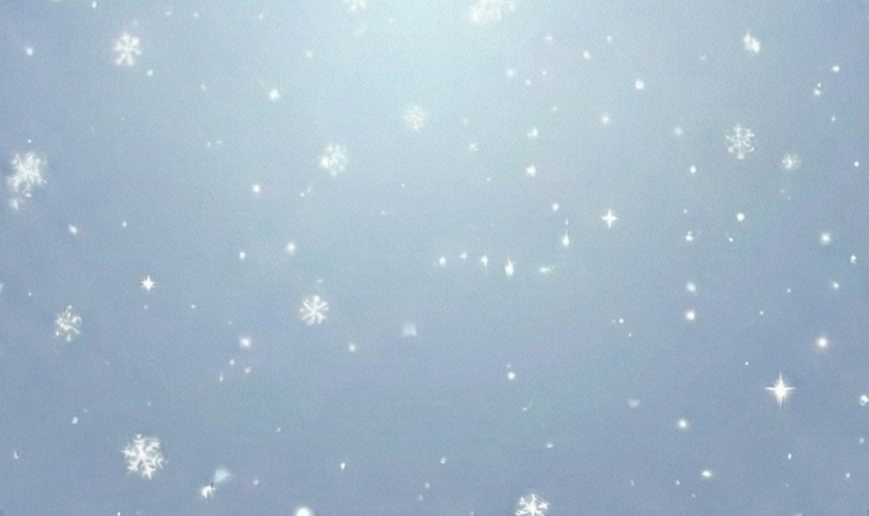
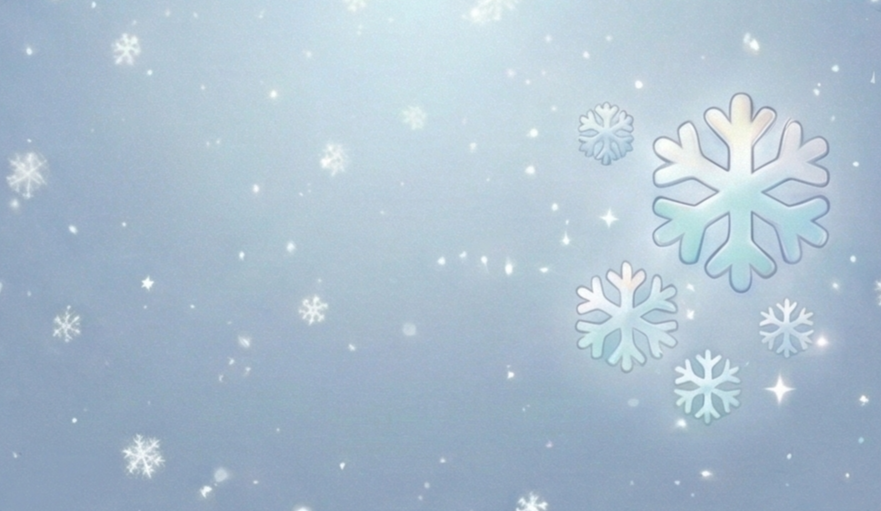
weather

diff --git a/mobile/app/(tabs)/home.tsx b/mobile/app/(tabs)/home.tsx
@@ -12,14 +12,7 @@ import FriendSelector from "../../components/FriendSelector";
 import { Activity, MOCK_ACTIVITIES } from "../../constants/data";
 import { useCurrentWeather } from "../../hooks/useCurrentWeather";
 
-const WEATHER_ICONS: Record<string, any> = {
-  '맑음': require('../../assets/weather/sun.png'),
-  '구름많음': require('../../assets/weather/cloudy_sun.png'),
-  '흐림': require('../../assets/weather/cloudy.png'),
-  '눈': require('../../assets/weather/snow.png'),
-  '비': require('../../assets/weather/cloudy.png'), // Fallback for rain if not provided
-  'default': require('../../assets/weather/sun.png'),
-};
+
 
 const WEATHER_THEMES: Record<string, { bg: string, text: string, border?: string }> = {
   '맑음': { bg: '#81CFEF', text: '#FFFFFF', border: '#FFB2C3' },
@@ -44,9 +37,7 @@ export default function HomeScreen() {
   const router = useRouter();
   const { data, loading, error, permissionDenied } = useCurrentWeather();
 
-  const getWeatherIcon = (status: string) => {
-    return WEATHER_ICONS[status] || WEATHER_ICONS['default'];
-  };
+
 
   const getWeatherBackground = (status: string) => {
     return WEATHER_BG_IMAGES[status] || WEATHER_BG_IMAGES['default'];
@@ -141,11 +132,7 @@ export default function HomeScreen() {
                         </Text>
                       </View>
                     </View>
-                    <Image
-                      source={getWeatherIcon(data.precipitationType)}
-                      style={styles.weatherIcon}
-                      resizeMode="contain"
-                    />
+                    {/* Icon is now part of the background image */}
                   </View>
                 )}
               </View>
@@ -179,7 +166,6 @@ const styles = StyleSheet.create({
   },
   weatherContainer: {
     flexDirection: "row",
-    justifyContent: "space-between",
     alignItems: "center",
   },
   weatherInfo: {
@@ -199,10 +185,6 @@ const styles = StyleSheet.create({
   weatherSubInfo: {
     flexDirection: "row",
     gap: 12,
-  },
-  weatherIcon: {
-    width: 80,
-    height: 80,
   },
   weatherDesc: { fontSize: 14, color: "#666", fontFamily: "Pretendard-Medium" },
   weatherDetailText: {
